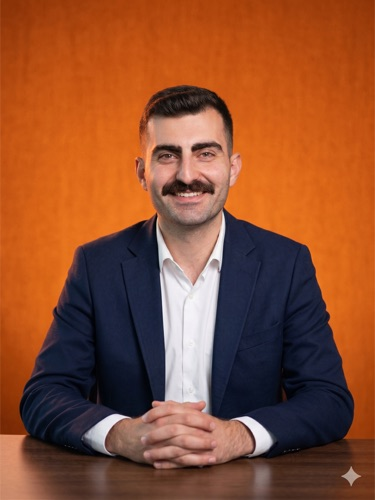
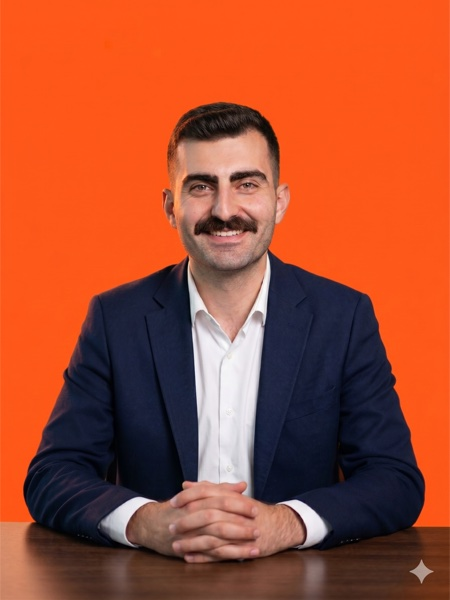
feat: team cards redesign with photo cards
- New photo with orange bg uploaded (compressed JPEG)
- Card layout: photo on top (3:4 aspect), name+role below
- Active members: white card with subtle border
- Placeholder members: dashed border, muted style

diff --git a/src/app/[locale]/about/page.tsx b/src/app/[locale]/about/page.tsx
@@ -84,18 +84,20 @@ export default async function AboutPage({ params }: Props) {
               { name: locale === 'en' ? 'Coming Soon' : 'Yakında', role: locale === 'en' ? 'Growth Strategist' : 'Büyüme Stratejisti', img: null },
               { name: locale === 'en' ? 'Coming Soon' : 'Yakında', role: locale === 'en' ? 'Operations Lead' : 'Operasyon Lideri', img: null },
             ]).map((member, i) => (
-              <div key={i} className="text-center">
+              <div key={i} className={`rounded-2xl overflow-hidden border ${member.img ? 'border-black/[0.08] bg-white' : 'border-dashed border-ink/10 bg-ink/[0.02]'}`}>
                 {member.img ? (
-                  <div className="w-24 h-24 rounded-full mx-auto mb-4 overflow-hidden border-2 border-accent/20">
-                    <Image src={member.img} alt={member.name} width={96} height={96} className="w-full h-full object-cover" />
+                  <div className="aspect-[3/4] relative">
+                    <Image src={member.img} alt={member.name} fill className="object-cover object-top" />
                   </div>
                 ) : (
-                  <div className="w-24 h-24 rounded-full mx-auto mb-4 flex items-center justify-center text-[1.2rem] font-black bg-ink/5 text-ink/20 border-2 border-dashed border-ink/10">
-                    ?
+                  <div className="aspect-[3/4] flex items-center justify-center">
+                    <span className="text-[2rem] font-black text-ink/10">?</span>
                   </div>
                 )}
-                <h3 className={`text-[0.95rem] font-bold mb-1 ${member.img ? 'text-ink' : 'text-ink/30'}`}>{member.name}</h3>
-                <p className={`text-[0.8rem] ${member.img ? 'text-ink/50' : 'text-ink/20'}`}>{member.role}</p>
+                <div className="p-4 text-center">
+                  <h3 className={`text-[0.95rem] font-bold mb-0.5 ${member.img ? 'text-ink' : 'text-ink/25'}`}>{member.name}</h3>
+                  <p className={`text-[0.78rem] ${member.img ? 'text-ink/50' : 'text-ink/15'}`}>{member.role}</p>
+                </div>
               </div>
             ))}
           </div>
